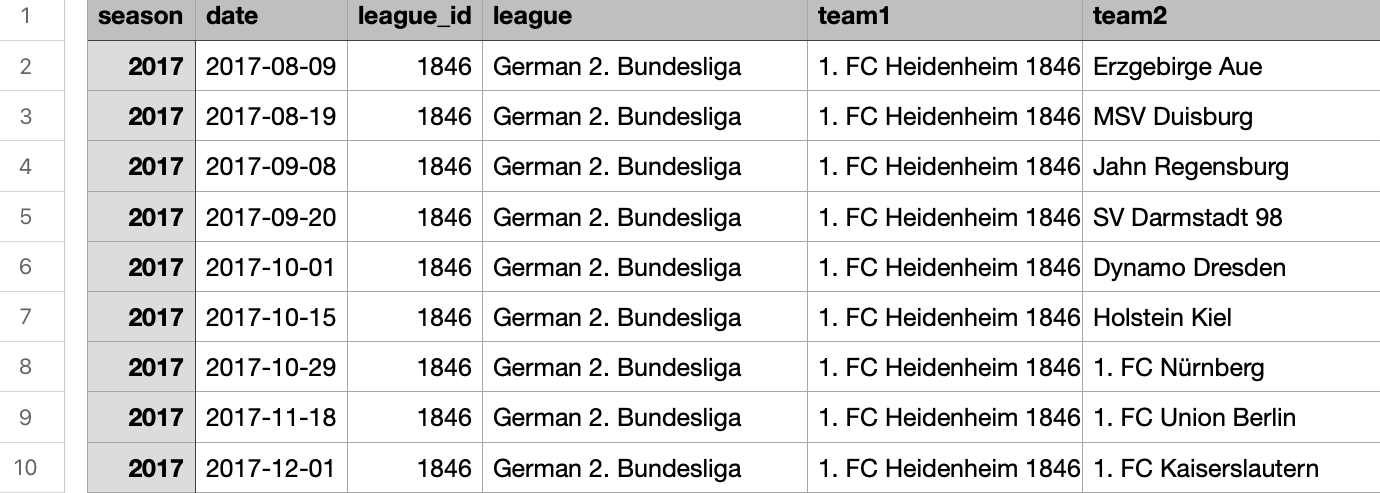
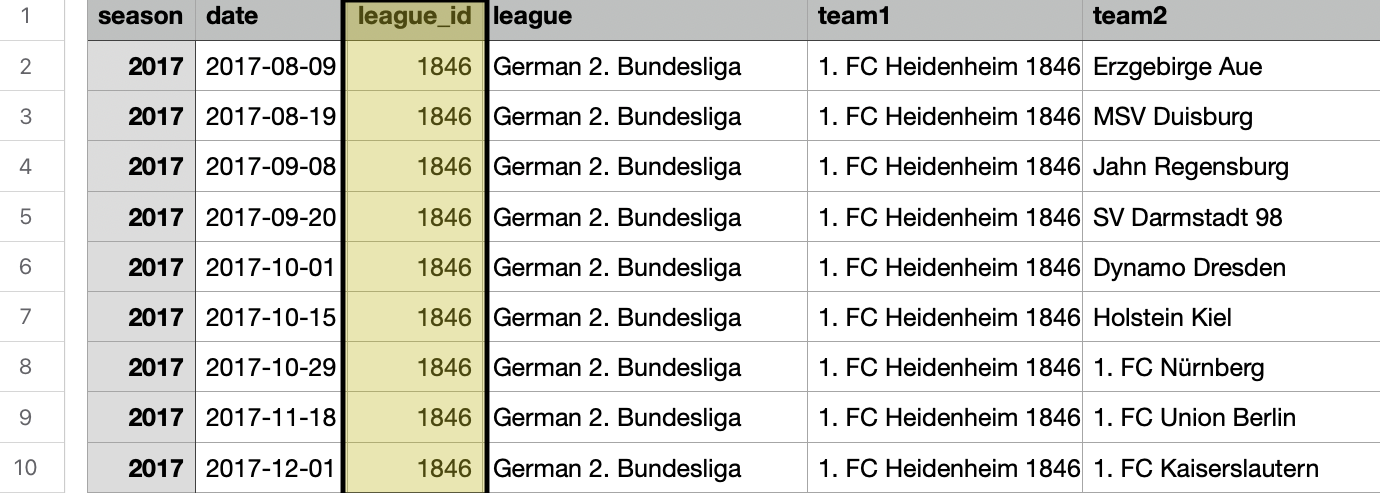
Update

Changed region(s): [[0.2493, 0.0, 0.3739, 1.0]]

diff --git a/index.html b/index.html
@@ -47,8 +47,8 @@ h1, h2, h3, h4, h5, h6 {
 
 
     <div class="w3-col m6 w3-padding-large">
-      <p class="w3-large">The first step was to download a data set, unfortunately this contained over 44,000 values that included scores from leagues all over the world. My first step was to narrow this down to only the premier league and I did this just by filtering by “league_id”.</p>
-      <p class="w3-large">Excepteur sint occaecat cupidatat non proident, sunt in culpa qui officia deserunt mollit anim id est laborum consectetur adipiscing elit, sed do eiusmod temporincididunt ut labore et dolore magna aliqua. Ut enim ad minim veniam, quis nostrud exercitation ullamco laboris nisi ut aliquip ex ea commodo consequat.</p>
+      <p class="w3-large">The first step was to download a data set, unfortunately this contained over 44,000 values that included scores from leagues all over the world. My following step was to narrow this down to only the premier league and I did this just by filtering by “league_id”.</p>
+      <p class="w3-large">The images on the right show the data sets with the first 10 items and last 10 items with the column I used for my initial filter highlighted.</p>
     </div>
     <div class="w3-col m6 w3-padding-large w3-hide-small">
      <img src="/FirstPage_01.png" class="w3-round w3-image w3-opacity-min" width="600" height="750">
@@ -62,7 +62,7 @@ h1, h2, h3, h4, h5, h6 {
       <img src="/FirstPage_02.png" class="w3-round w3-image w3-opacity-min" width="600" height="750">
     </div>
     <div class="w3-col m6 w3-padding-large">
-      <p class="w3-large">The Catering was founded in blabla by Mr. Smith in lorem ipsum dolor sit amet, consectetur adipiscing elit consectetur adipiscing elit, sed do eiusmod tempor incididunt ut labore et dolore magna aliqua. Ut enim ad minim veniam, quis nostrud exercitation ullamco laboris nisi ut aliquip ex ea commodo consequat. Duis aute iruredolor in reprehenderit in voluptate velit esse cillum dolore eu fugiat nulla pariatur.We only use seasonal ingredients.</p>
+      <p class="w3-large">The Premier League id was 2411, so after my initial filter my data set looked as shown as the left; however, this still had a lot of information that I didn't need to answer my questions so the next step was to prune the remaining data.</p>
       <p class="w3-large">Excepteur sint occaecat cupidatat non proident, sunt in culpa qui officia deserunt mollit anim id est laborum consectetur adipiscing elit, sed do eiusmod temporincididunt ut labore et dolore magna aliqua. Ut enim ad minim veniam, quis nostrud exercitation ullamco laboris nisi ut aliquip ex ea commodo consequat.</p>
     </div>
 
